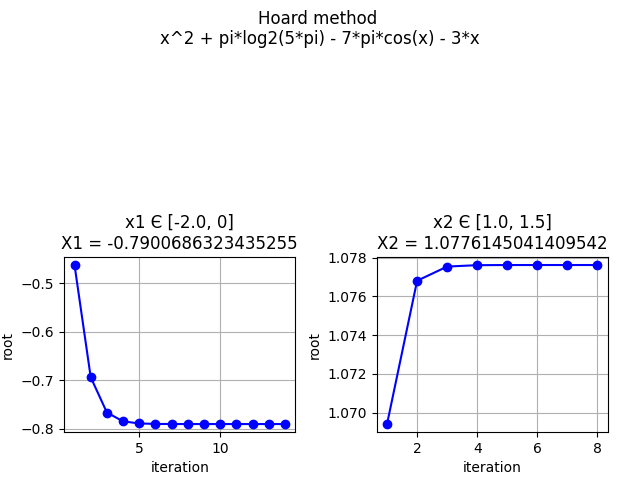
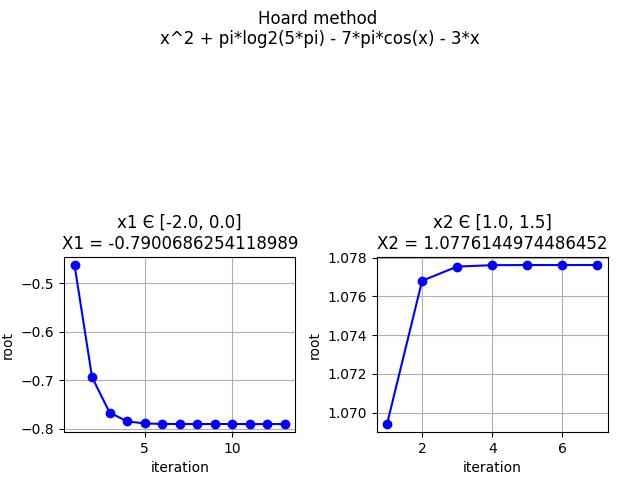
final version

diff --git a/lab1/main.py b/lab1/main.py
@@ -3,11 +3,18 @@ import matplotlib.pyplot as plt
 import itertools
 import types
 from typing import List
+from prettytable import PrettyTable
+
+import os
 
 # Consts
 PI = math.pi
 piLog2_5PI = PI * math.log2(5 * PI)
 
+hoard_table = PrettyTable()
+newton_table = PrettyTable()
+hoard_table.field_names = ["Iteration", "First interval", "Second interval", "X value"]
+newton_table.field_names = ["Iteration", "hk", "Xk-1", "Xk"]
 '''
     Zinchuk Mykhailo KV-94 Var 7 ->  22
     Hoard method
@@ -61,7 +68,7 @@ def draw_graph(x1, x2, f, title, f_name):
     plt.title(title)
     plt.plot(x_arr, y_arr)
     plt.grid(True)
-    plt.savefig(f"./results/{f_name}")
+    plt.savefig(f"./lab1/results/{f_name}")
     plt.show()
 
 
@@ -69,12 +76,24 @@ def draw_graph(x1, x2, f, title, f_name):
 draw_graph(-1, 4, f1.as_func, f1.as_str, "f1_graphic.png")
 draw_graph(-0.5, 1.3, f2.as_func, f2.as_str, "f2_graphic.png")
 
-# isolation interval found from graphic
-f1.boundaries.append([-2.0, 0])
-f1.boundaries.append([1.0, 1.5])
 
-f2.boundaries.append([0.5, 0.75])
-f2.boundaries.append([1, 1.25])
+def get_intervals(f, rec1, rec2):
+    print(f"\nEnter the  boundaries for {f.as_str}\n "
+          f"Recommended is {str(rec1)} {str(rec2)}\n")
+    a = input("[a, b], [a, b] -> enter with a space between -> for example(0 1 2 4) ")
+    bound = []
+    bound.extend(map(float, a.split(" ")))
+    return bound
+
+
+# isolation interval found from graphic
+bnd = get_intervals(f1, [-2.0, 0], [1.0, 1.5] )
+f1.boundaries.append(bnd[:2])
+f1.boundaries.append(bnd[2:])
+
+bnd = get_intervals(f2, [0.5, 0.75], [1.0, 1.25])
+f2.boundaries.append(bnd[:2])
+f2.boundaries.append(bnd[2:])
 
 
 def hoard_method(a: float, b: float, eps: float, f) -> List[float]:
@@ -89,11 +108,11 @@ def hoard_method(a: float, b: float, eps: float, f) -> List[float]:
     result = list()
 
     for i in itertools.count(0):
-        c = a - (f(a) * (b - a)) / (f(b) - f(a))  # (1.4)
+        c = a - (f(a) * (b - a)) / (f(b) - f(a))
         result.append(c)
-
+        hoard_table.add_row([i, a, b, c])
         if len(result) != 1:
-            if math.fabs(f(c)) < eps:
+            if math.fabs(c - result[-2]) < eps:
                 return result
 
         if f(a) * f(c) < 0:
@@ -120,6 +139,10 @@ def check(a: float, b: float, f, d2f) -> float:
         return b
 
 
+def get_k(i):
+    return 1 / (2 ** i)
+
+
 def newton_method(a: float, b: float, eps: float, f) -> List[float]:
     """
     Realization of Newton method
@@ -131,17 +154,20 @@ def newton_method(a: float, b: float, eps: float, f) -> List[float]:
     :return: List of results on every iteration
     """
     result = list()
-    h = 0.001
+    h = 0
     val = check(a, b, f2.as_func, f2.as_derivative2)
     result.append(val)
     xk_1 = None
+    i = 0
     while True:
         if xk_1 is not None:
             xk = xk_1
         else:
             xk = val
-
+        h = get_k(i)
+        i += 1
         xk_1 = xk - ((f(xk) * h) / (f(xk + h) - f(xk)))
+        newton_table.add_row([i, h, xk_1, xk])
         result.append(xk_1)
         if math.fabs(xk_1 - xk) < eps:
             break
@@ -182,32 +208,49 @@ def draw_results(result1: List[float], result2: List[float], title, f_nms: types
 
     plt.subplots_adjust(top=0.92, bottom=0.1, left=0.1, right=0.95, hspace=0.25,
                         wspace=0.35)
-    plt.savefig(f"./results/{f_name}")
+    plt.savefig(f"./lab1/results/{f_name}")
     plt.show()
 
 
-print("""
-                    Hoard method
-       x^2 + pi*log2(5*pi) - 7*pi*cos(x) - 3*x = 0\n"""
-      )
+def print_info(title, table, results):
+    print(f"___________________{title}__________________")
+    print(table)
+    table.clear_rows()
+    print("Result: " + str(results[-1]) + "\n")
 
-print(f"x1 ->  {hoard_method(f1.boundaries[0][0], f1.boundaries[0][1], 10 ** -7, f1.as_func)[-1]} - {f1.boundaries[0]}")
-print(f"x2 ->  {hoard_method(f1.boundaries[1][0], f1.boundaries[1][1], 10 ** -7, f1.as_func)[-1]} - {f1.boundaries[1]}")
 
-print("""\n
-                Discrete Newton method
-        e^x + sin(x) - 10x + x^10 + e^cos(x) = 0
-""")
+hoard_result_1_interval = hoard_method(f1.boundaries[0][0], f1.boundaries[0][1], 10 ** -7, f1.as_func)
+print_info("Hoard method", hoard_table, hoard_result_1_interval)
 
-print(
-    f"\n x1 -> {newton_method(f2.boundaries[0][0], f2.boundaries[0][1], 10 ** -7, f2.as_func, f2.as_derivative2)[-1]} - {f2.boundaries[0]}")
-print(
-    f" x2 -> {newton_method(f2.boundaries[1][0], f2.boundaries[1][1], 10 ** -7, f2.as_func, f2.as_derivative2)[-1]} - {f2.boundaries[1]}")
+hoard_result_2_interval = hoard_method(f1.boundaries[1][0], f1.boundaries[1][1], 10 ** -7, f1.as_func)
+print_info("Hoard method", hoard_table, hoard_result_2_interval)
 
-draw_results(hoard_method(f1.boundaries[0][0], f1.boundaries[0][1], 10 ** -7, f1.as_func),
-             hoard_method(f1.boundaries[1][0], f1.boundaries[1][1], 10 ** -7, f1.as_func),
+newton_result_1_interval = newton_method(f2.boundaries[0][0], f2.boundaries[0][1], 10 ** -7, f2.as_func)
+print_info("Discrete Newton method", newton_table, newton_result_1_interval)
+
+newton_result_2_interval = newton_method(f2.boundaries[1][0], f2.boundaries[1][1], 10 ** -7, f2.as_func)
+print_info("Discrete Newton method", newton_table, newton_result_2_interval)
+
+draw_results(hoard_result_1_interval, hoard_result_2_interval,
              "Hoard method \n" + f1.as_str, f1, "hoard_method.png")
 
-draw_results(newton_method(f2.boundaries[0][0], f2.boundaries[0][1], 10 ** -7, f2.as_func, f2.as_derivative2),
-             newton_method(f2.boundaries[1][0], f2.boundaries[1][1], 10 ** -7, f2.as_func, f2.as_derivative2),
-             "Newton method \n" + f2.as_str, f2, "newton_method.png")
+draw_results(newton_result_1_interval, newton_result_2_interval,
+             "Discrete Newton method \n" + f2.as_str, f2, "newton_method.png")
+
+# print("""
+#                     Hoard method
+#        x^2 + pi*log2(5*pi) - 7*pi*cos(x) - 3*x = 0\n"""
+#       )
+#
+# print(f"x1 ->  {hoard_method(f1.boundaries[0][0], f1.boundaries[0][1], 10 ** -7, f1.as_func)[-1]} - {f1.boundaries[0]}")
+# print(f"x2 ->  {hoard_method(f1.boundaries[1][0], f1.boundaries[1][1], 10 ** -7, f1.as_func)[-1]} - {f1.boundaries[1]}")
+#
+# print("""\n
+#                 Discrete Newton method
+#         e^x + sin(x) - 10x + x^10 + e^cos(x) = 0
+# """)
+#
+# print(
+#     f"\n x1 -> {newton_method(f2.boundaries[0][0], f2.boundaries[0][1], 10 ** -7, f2.as_func)[-1]} - {f2.boundaries[0]}")
+# print(
+#     f" x2 -> {newton_method(f2.boundaries[1][0], f2.boundaries[1][1], 10 ** -7, f2.as_func)[-1]} - {f2.boundaries[1]}")
